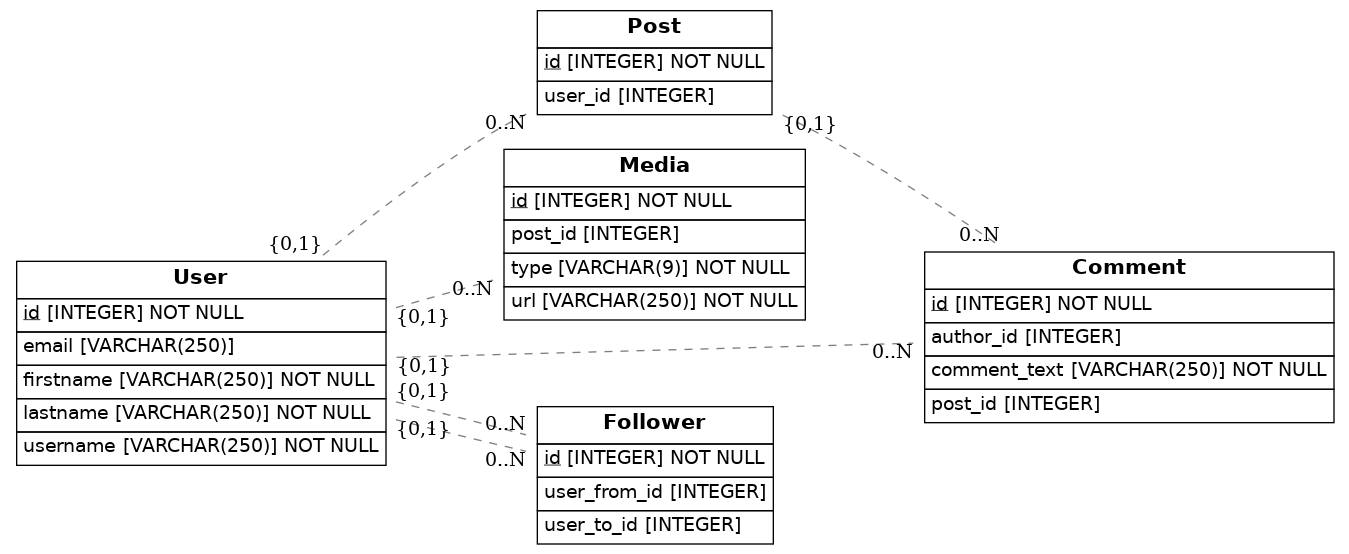
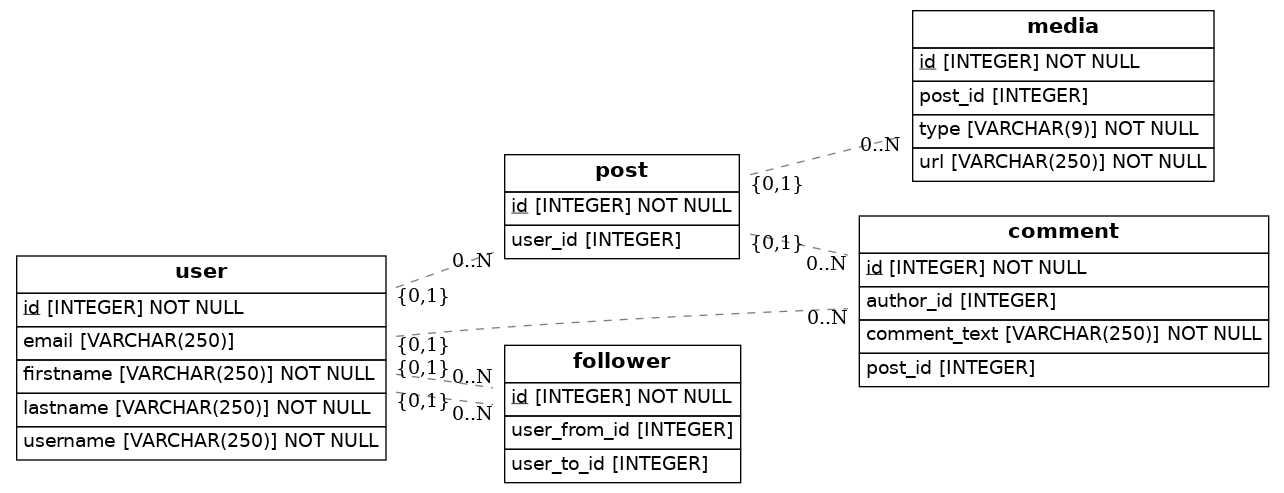
error de conexión corregido

Changed region(s): [[0.0, 0.0, 0.6231, 1.0], [0.5296, 0.0, 0.9969, 0.7911]]

diff --git a/src/models.py b/src/models.py
@@ -33,7 +33,7 @@ class MyEnum(enum.Enum):
     post = 4
 
 class User(Base):
-    __tablename__ = 'User'
+    __tablename__ = 'user'
     id = Column(Integer, primary_key=True)
     username = Column(String(250), nullable=False)
     firstname = Column(String(250), nullable=False)
@@ -44,38 +44,38 @@ class User(Base):
         return {}
 
 class Post(Base):
-    __tablename__ = "Post"
+    __tablename__ = "post"
     id = Column(Integer, primary_key=True)
-    user_id =  Column(Integer, ForeignKey('User.id'))
+    user_id =  Column(Integer, ForeignKey('user.id'))
 
     def to_dict(self):
         return {}
 
 class Media(Base):
-    __tablename__ = 'Media'
+    __tablename__ = 'media'
     id = Column(Integer, primary_key=True)
     type = Column(Enum(MyEnum), nullable=False)
     url = Column(String(250), nullable=False)
-    post_id = Column(Integer, ForeignKey('User.id'))
+    post_id = Column(Integer, ForeignKey('post.id'))
 
     def to_dict(self):
         return {}
 
 class Comment(Base):
-    __tablename__ = "Comment"
+    __tablename__ = "comment"
     id = Column(Integer, primary_key=True)
     comment_text= Column(String(250), nullable=False)
-    author_id = Column(Integer, ForeignKey('User.username'))
-    post_id = Column(Integer, ForeignKey('Post.id'))
+    author_id = Column(Integer, ForeignKey('user.username'))
+    post_id = Column(Integer, ForeignKey('post.id'))
 
     def to_dict(self):
         return {}
 
 class Follower(Base):
-    __tablename__ = "Follower"
+    __tablename__ = "follower"
     id = Column(Integer, primary_key=True)
-    user_from_id = Column(Integer, ForeignKey('User.id'))
-    user_to_id = Column(Integer, ForeignKey('User.id'))
+    user_from_id = Column(Integer, ForeignKey('user.id'))
+    user_to_id = Column(Integer, ForeignKey('user.id'))
 
     def to_dict(self):
         return {}
